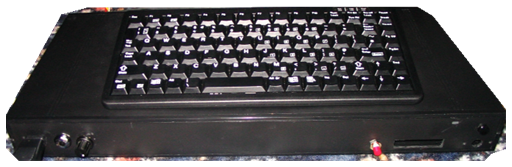
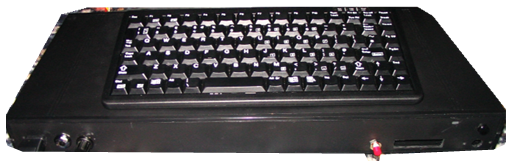
Remove exterior background below Spectrum SE front panel

Changed region(s): [[0.0, 0.8683, 1.0, 0.988]]

diff --git a/docs/tasks/emulation/commun.md b/docs/tasks/emulation/commun.md
@@ -942,3 +942,15 @@ Super Action Coleco : photographie Museo8bits/Miguel Durán recadrée sur le con
   - [x] Modifier docs/tasks/emulation/commun.md : consigner les résultats du build complet et des contrôles ciblés, puis commiter ensemble le code, le visuel et ces résultats sans push.
 
 Roller Coleco : photographie du périphérique réel publiée sur AtariAge, recadrage et masque alpha classiques, PNG 512 x 312. Boule et quatre boutons préservés ; aucune génération de matériel. Profil SDK/App enregistré ; Gearcoleco annonce Roller, JollyCV et BlueMSX ne reçoivent pas un choix absent de leurs capacités. Source native Gearcoleco à la révision déclarée consultée : Roller utilise Spinner1/X et Spinner2/Y ; visuel actif horizontal au port 1, vertical au port 2, deux boutons de chaque côté. Identifiants et commandes natifs conservés, libellés verticaux issus de la base commune, associations initiales vides. 32 tests ciblés réussis ; build complet Debug terminé code 0, gwgui.exe et 23 entryAssembly présents, SHA256 de la ressource embarquée identique au PNG source. Lecteurs et contexte de chargement libérés dans finally ; photographie source et aperçu supprimés. Cette qualification porte sur visuel, sélection, persistance et callbacks contrôlés, sans prétendre à un essai du Roller matériel ou de tous les jeux.
+
+- [x] Qualifier les trois photos de machines dont le fond doit encore être confirmé.
+  - [x] Créer artifacts/machine-alpha-final-review/X68000Xvi.png, NeoGeoMvs.png et SpectrumSe.png : composer les PNG existants sur fond sombre avec leur alpha effectif, sans changer leurs fichiers de production ; libérer les bitmaps dans finally.
+  - [x] Modifier docs/tasks/emulation/commun.md : consigner seulement les défauts visuellement confirmés ; ajouter les actions de correction concrètes avant tout remplacement, sans retoucher une image déjà correcte.
+  - [x] Créer artifacts/machine-alpha-final-review/SpectrumSe-candidate.png et SpectrumSe-candidate-preview.png : retirer du seul alpha la bande de fond sous la façade, préserver le connecteur et les RGB, examiner le résultat sur fond sombre.
+  - [x] Modifier src/GWGUI.Emulation.Sinclair/Assets/Machines/SpectrumSe.png : intégrer seulement le masque classiquement vérifié, dimensions et RGB inchangés.
+  - [x] Supprimer artifacts/machine-alpha-final-review/X68000Xvi.png, NeoGeoMvs.png, SpectrumSe.png, SpectrumSe-candidate.png et SpectrumSe-candidate-preview.png puis le dossier vide.
+  - [x] Modifier docs/tasks/emulation/commun.md : noter les pixels alpha corrigés, la comparaison RGB et la livraison après build complet, puis commiter la correction avec sa qualification.
+
+Inspection effective sur fond sombre : X68000Xvi 310 x 512 et NeoGeoMvs 512 x 512 ne montrent pas de fond extérieur à remplacer. SpectrumSe 512 x 167 conserve une bande photographique sous la façade ; seule cette région extérieure est retenue pour correction classique, avec conservation du connecteur sortant et de tous les RGB.
+
+Spectrum SE : 4260 pixels alpha modifiés dans la seule bande extérieure sous la façade. Comparaison de tous les RGB et dimensions avant remplacement : identiques, 512 x 167 ; connecteur sortant préservé et candidat examiné sur fond sombre. Les photos X68000Xvi et NeoGeoMvs restent inchangées après inspection effective. Aperçus et candidat supprimés, bitmaps libérés dans finally. Build complet Debug terminé code 0, application et 23 entryAssembly présents ; SHA256 de la ressource SpectrumSe embarquée identique au PNG corrigé. Aucun nouveau test ajouté pour cette modification du seul alpha, aucune modification des conversions natives Coleco ; revue globale non clôturée.
